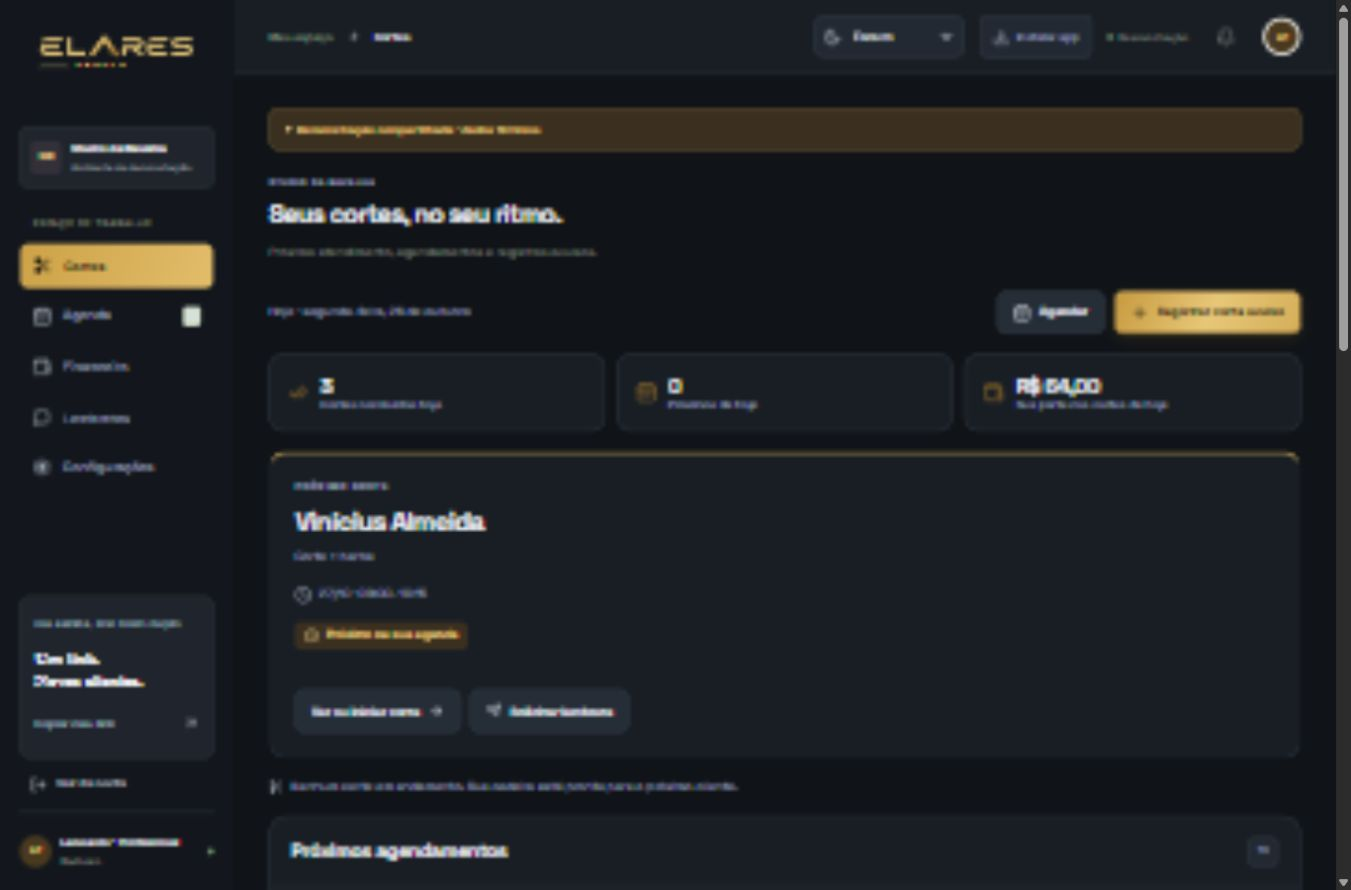
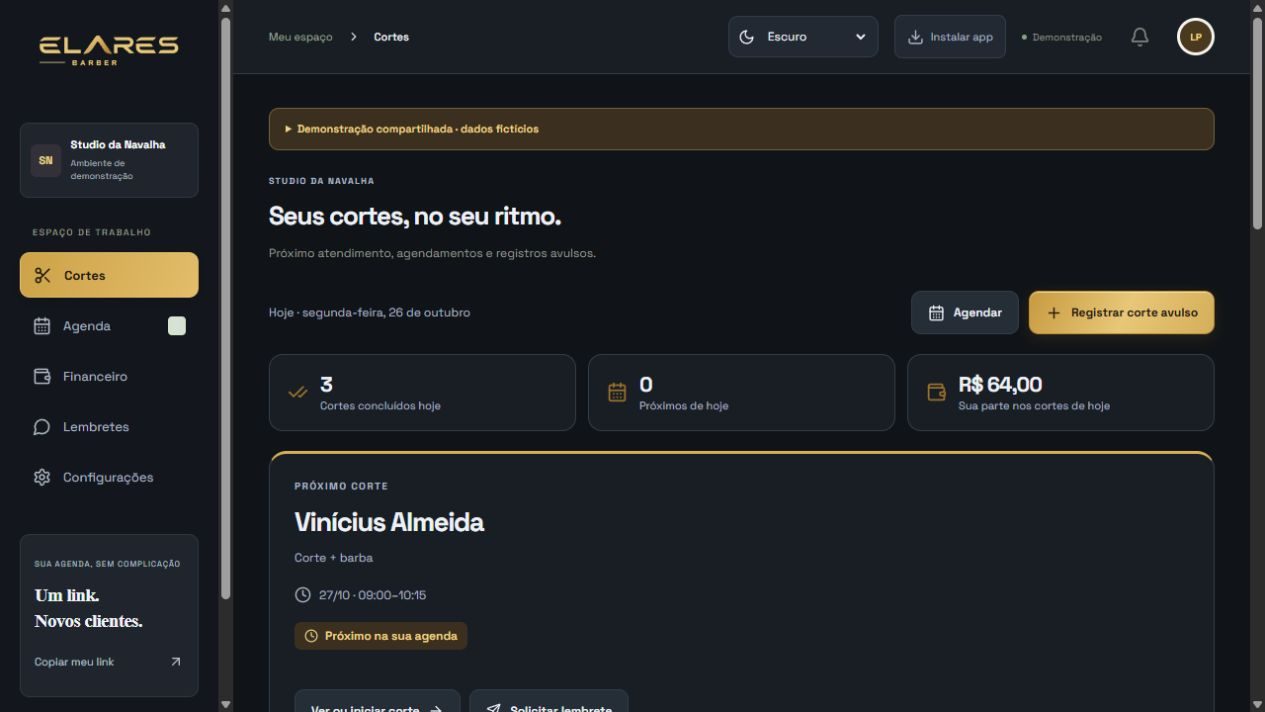
docs: registrar validacao Linux e evidencias do tema dourado

diff --git a/docs/VERSAO_FINAL.md b/docs/VERSAO_FINAL.md
@@ -26,7 +26,7 @@ Atualizado em 26/10/2026. A implementação local avançou; a liberação comerc
 | Inicialização | Produção comercial cria operador sem dados fictícios; preflight e cadastro bloqueado quando incompleto | Necessita configurar os serviços externos antes de vender |
 | Publicação | Última release pública verificada: 93f2783 | Nova etapa ainda não publicada |
 
-A suíte completa passou em 29/29 cenários, incluindo confirmação de e-mail e administrador sem vínculo com barbearia. A asserção de remarcação distingue confirmações já simuladas do cancelamento de lembretes pendentes quando o worker está ativo. Typecheck e compilação de produção concluídos; auditoria npm das dependências de produção sem vulnerabilidades conhecidas no momento da execução. Evidências adicionais ficam em VALIDACAO.md.
+A suíte completa passou em 29/29 cenários, incluindo confirmação de e-mail e administrador sem vínculo com barbearia. A asserção de remarcação distingue confirmações já simuladas do cancelamento de lembretes pendentes quando o worker está ativo. Typecheck e compilação de produção concluídos; CI Linux da fonte 5566e0a aprovada ([execução 40419408569](https://github.com/T-Lucas43/barbearia-gestao/actions/runs/40419408569)); auditoria npm das dependências de produção sem vulnerabilidades conhecidas no momento da execução. Evidências adicionais ficam em VALIDACAO.md.
 
 Banco nativo local, aplicação e worker ficaram em execução. Dados do desenvolvimento são fictícios. O backup local de 26/10 passou em restauração numa base temporária; não foi ensaio de recuperação da hospedagem.
 
@@ -37,6 +37,6 @@ Banco nativo local, aplicação e worker ficaram em execução. Dados do desenvo
 3. **Backups externos:** escolher destino, instalar cliente PostgreSQL compatível na hospedagem, guardar chave fora do servidor, configurar retenção externa e testar recuperação a partir da cópia externa.
 4. **Oferta e documentos:** aprovar preços/limites, dados do operador, contato público e textos de termos/privacidade. Os textos atuais são rascunhos.
 5. **Homologação operacional:** uso em Android, iPhone e Smart TV físicos, carga compatível com a quantidade de empresas pretendida e ensaio de incidente.
-6. **Publicação:** gerar pacote Linux da nova fonte, validar CI, implantar e conferir SHA, bundles, login, isolamento e persistência no ambiente publicado.
+6. **Publicação:** gerar pacote Linux da nova fonte, implantar e conferir SHA, bundles, login, isolamento e persistência no ambiente publicado.
 
 Nenhum pagamento, e-mail externo ou mensagem WhatsApp real foi realizado nesta etapa. Notificações internas dependem do sistema aberto. Não declarar a versão comercial liberada com estes itens em aberto.

diff --git a/docs/VALIDACAO.md b/docs/VALIDACAO.md
@@ -118,3 +118,6 @@ Após aplicar: modo inspect da checagem pública confirmou os bundles novos; nav
 - Sondagem curta na prévia compilada: 20/20 respostas HTTP 200 em /api/health, concorrência 5, p95 342 ms. Não é teste de capacidade comercial. Registro local output/qa-prod-preview.json.
 - A inspeção HTTP revelou ausência da página /comecar apesar do formulário e API implementados. Rota adicionada e verificação de HTTP 200/conteúdo incorporada ao teste SaaS.
 - Aplicação e worker locais permaneceram ativos. Não houve pagamento, envio de e-mail externo nem mensagem WhatsApp. A nova etapa ainda não foi publicada. Dependências comerciais em VERSAO_FINAL.md.
+
+- CI Linux aprovada na fonte 5566e0a: [execução 40419408569](https://github.com/T-Lucas43/barbearia-gestao/actions/runs/40419408569), com seed, tipos, testes e build. O grupo SaaS também passou em 5/5 após adicionar a verificação HTTP da página de cadastro.
+- Conferência final da prévia compilada: as sete páginas verificadas retornaram HTTP 200, incluindo /comecar, com nonce correspondente. Após a revisão, nenhum plano/tenant de QA permaneceu no banco local e nenhum preço foi publicado.
